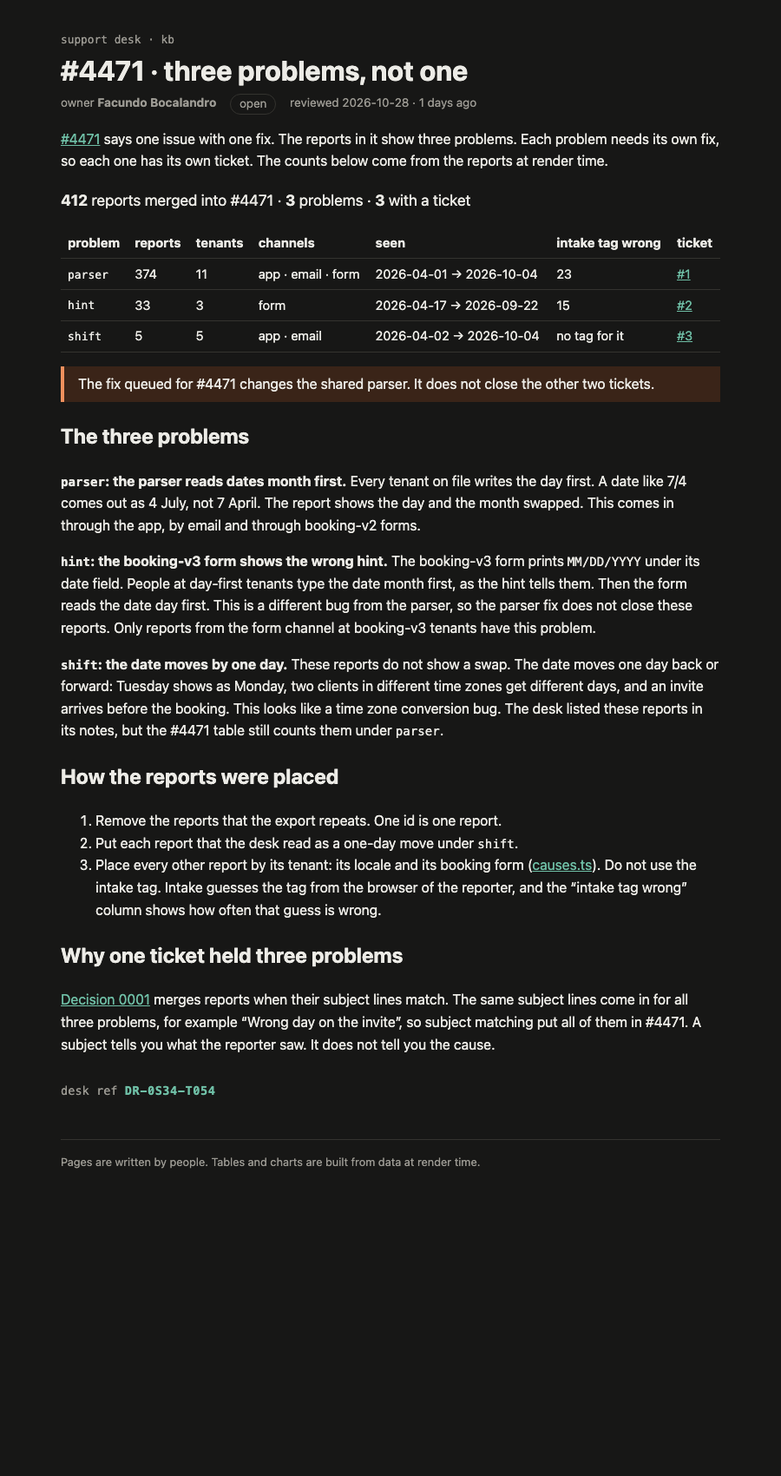
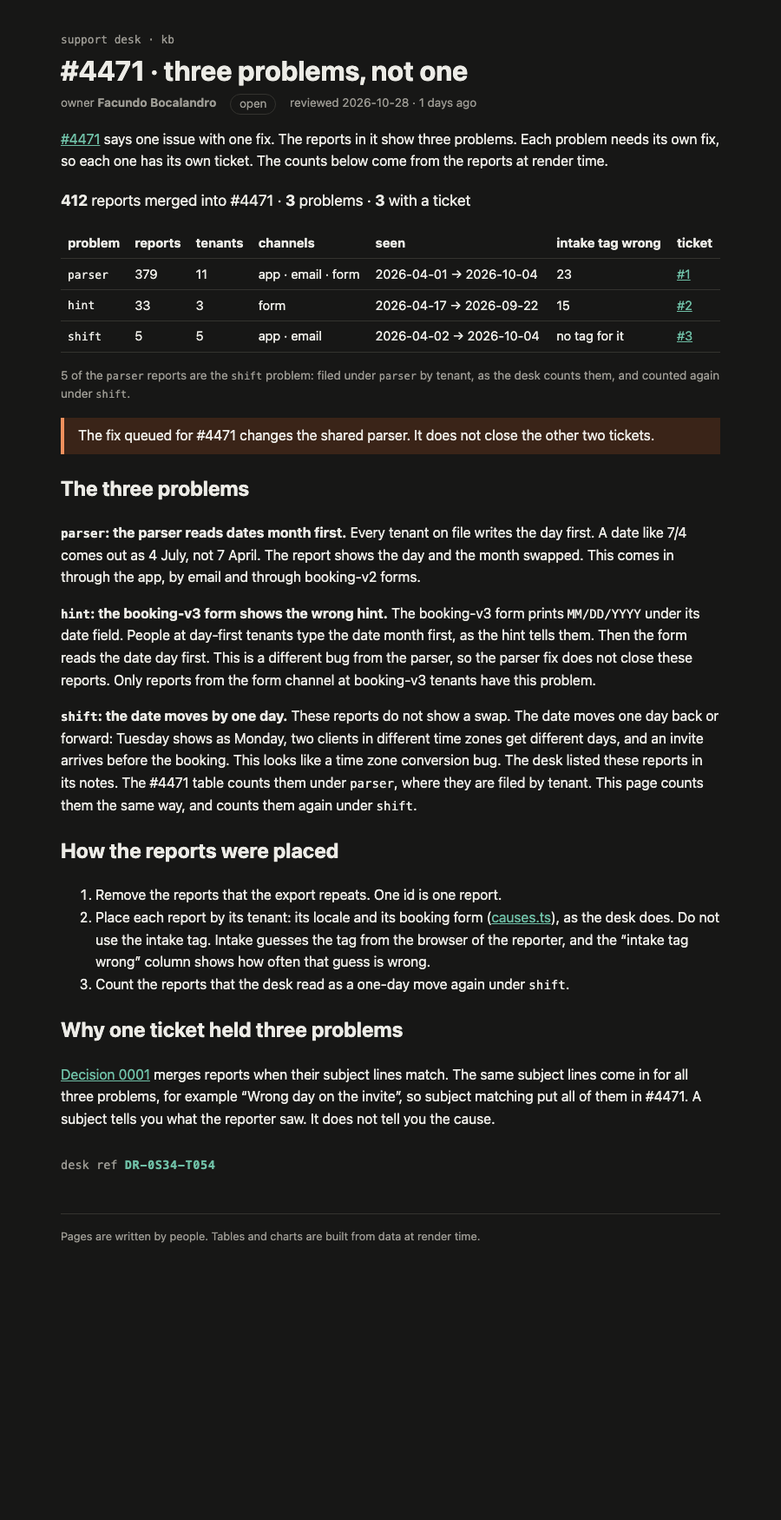
Count #4471 problems the way the desk counts

Changed region(s): [[0.0622, 0.0312, 0.9333, 0.8418], [0.28, 0.7794, 0.3111, 0.8418], [0.4978, 0.7794, 0.5289, 0.8106]]

diff --git a/rendered/site/kb/incidents/4471-split.html b/rendered/site/kb/incidents/4471-split.html
@@ -9,23 +9,23 @@
 		<link href="../../_app/immutable/chunks/B2Ul7l_u.js" rel="modulepreload">
 		<link href="../../_app/immutable/chunks/BCPXOG7W.js" rel="modulepreload">
 		<link href="../../_app/immutable/chunks/Dh1V97Jm.js" rel="modulepreload">
-		<link href="../../_app/immutable/entry/app.DE04yWjI.js" rel="modulepreload">
+		<link href="../../_app/immutable/entry/app.DlyPI68j.js" rel="modulepreload">
 		<link href="../../_app/immutable/nodes/0.C9KfiiPz.js" rel="modulepreload">
 		<link href="../../_app/immutable/chunks/DK3Fl9T5.js" rel="modulepreload">
-		<link href="../../_app/immutable/nodes/5.C_DFmM98.js" rel="modulepreload">
-		<link href="../../_app/immutable/chunks/ChXOlVZN.js" rel="modulepreload">
+		<link href="../../_app/immutable/nodes/5.DQgYE4df.js" rel="modulepreload">
+		<link href="../../_app/immutable/chunks/BeiGgLNp.js" rel="modulepreload">
 		<link href="../../_app/immutable/chunks/BTPwLomz.js" rel="modulepreload">
 		<link href="../../_app/immutable/chunks/CVBzP17p.js" rel="modulepreload">
 		<link href="../../_app/immutable/chunks/BIy4WKJS.js" rel="modulepreload">
 		<!--e2jw2j--><!----><title>#4471 · three problems, not one · support kb</title>
 		<link href="../../_app/immutable/assets/runbook.COyw0cbZ.css" rel="stylesheet">
 		<link href="../../_app/immutable/assets/Callout.AbLv9dM_.css" rel="stylesheet">
-		<link href="../../_app/immutable/assets/_page.lbj36FF-.css" rel="stylesheet">
+		<link href="../../_app/immutable/assets/_page.DUgw4t3M.css" rel="stylesheet">
   </head>
   <body>
     <div style="display: contents"><!--[--><!--[--><!--[0--><!--[--><!--[--><!--[-1--><!--[--><div class="kb svelte-e2jw2j"><header><a class="crumb svelte-e2jw2j" href="/kb">support desk · kb</a> <h1 class="svelte-e2jw2j">#4471 · three problems, not one</h1> <p class="meta svelte-e2jw2j"><span>owner <b>Facundo Bocalandro</b></span> <span class="status open svelte-e2jw2j">open</span> <span class="svelte-e2jw2j">reviewed 2026-10-28 · 1 days ago</span></p></header> <!--[-1--><!--]--> <main><p><a href="/kb/incidents/4471">#4471</a> says one issue with one fix. The reports in it show three problems.
 Each problem needs its own fix, so each one has its own ticket. The counts below come from the
-reports at render time.</p> <p class="sum svelte-1op6c6"><strong>412</strong> reports merged into #4471 · <strong>3</strong> problems · <strong>3</strong> with a ticket</p> <table><thead><tr><th>problem</th><th>reports</th><th>tenants</th><th>channels</th><th>seen</th><th>intake tag wrong</th><th>ticket</th></tr></thead><tbody><!--[--><tr class="svelte-1op6c6"><td class="svelte-1op6c6"><code>parser</code></td><td class="svelte-1op6c6">374</td><td class="svelte-1op6c6">11</td><td class="svelte-1op6c6">app · email · form</td><td class="svelte-1op6c6">2026-04-01 → 2026-10-04</td><td class="svelte-1op6c6">23</td><td class="svelte-1op6c6"><!--[0--><a href="https://github.com/FacundoBocalandro/support-kb-4471/issues/1">#1</a><!--]--></td></tr><tr class="svelte-1op6c6"><td class="svelte-1op6c6"><code>hint</code></td><td class="svelte-1op6c6">33</td><td class="svelte-1op6c6">3</td><td class="svelte-1op6c6">form</td><td class="svelte-1op6c6">2026-04-17 → 2026-09-22</td><td class="svelte-1op6c6">15</td><td class="svelte-1op6c6"><!--[0--><a href="https://github.com/FacundoBocalandro/support-kb-4471/issues/2">#2</a><!--]--></td></tr><tr class="svelte-1op6c6"><td class="svelte-1op6c6"><code>shift</code></td><td class="svelte-1op6c6">5</td><td class="svelte-1op6c6">5</td><td class="svelte-1op6c6">app · email</td><td class="svelte-1op6c6">2026-04-02 → 2026-10-04</td><td class="svelte-1op6c6">no tag for it</td><td class="svelte-1op6c6"><!--[0--><a href="https://github.com/FacundoBocalandro/support-kb-4471/issues/3">#3</a><!--]--></td></tr><!--]--></tbody></table><!----> <aside class="warn svelte-17bri61"><!---->The fix queued for #4471 changes the shared parser. It does not close the other two tickets.<!----></aside><!----> <h2>The three problems</h2> <p><strong><code>parser</code>: the parser reads dates month first.</strong> Every tenant on file writes the day first. A
+reports at render time.</p> <p class="sum svelte-1op6c6"><strong>412</strong> reports merged into #4471 · <strong>3</strong> problems · <strong>3</strong> with a ticket</p> <table><thead><tr><th>problem</th><th>reports</th><th>tenants</th><th>channels</th><th>seen</th><th>intake tag wrong</th><th>ticket</th></tr></thead><tbody><!--[--><tr class="svelte-1op6c6"><td class="svelte-1op6c6"><code>parser</code></td><td class="svelte-1op6c6">379</td><td class="svelte-1op6c6">11</td><td class="svelte-1op6c6">app · email · form</td><td class="svelte-1op6c6">2026-04-01 → 2026-10-04</td><td class="svelte-1op6c6">23</td><td class="svelte-1op6c6"><!--[0--><a href="https://github.com/FacundoBocalandro/support-kb-4471/issues/1">#1</a><!--]--></td></tr><tr class="svelte-1op6c6"><td class="svelte-1op6c6"><code>hint</code></td><td class="svelte-1op6c6">33</td><td class="svelte-1op6c6">3</td><td class="svelte-1op6c6">form</td><td class="svelte-1op6c6">2026-04-17 → 2026-09-22</td><td class="svelte-1op6c6">15</td><td class="svelte-1op6c6"><!--[0--><a href="https://github.com/FacundoBocalandro/support-kb-4471/issues/2">#2</a><!--]--></td></tr><tr class="svelte-1op6c6"><td class="svelte-1op6c6"><code>shift</code></td><td class="svelte-1op6c6">5</td><td class="svelte-1op6c6">5</td><td class="svelte-1op6c6">app · email</td><td class="svelte-1op6c6">2026-04-02 → 2026-10-04</td><td class="svelte-1op6c6">no tag for it</td><td class="svelte-1op6c6"><!--[0--><a href="https://github.com/FacundoBocalandro/support-kb-4471/issues/3">#3</a><!--]--></td></tr><!--]--></tbody></table> <!--[--><!--[0--><p class="note svelte-1op6c6">5 of the <code>parser</code> reports are the <code>shift</code> problem: filed under <code>parser</code> by tenant, as the desk counts them, and counted again under <code>shift</code>.</p><!--]--><!--[-1--><!--]--><!--[-1--><!--]--><!--]--><!----> <aside class="warn svelte-17bri61"><!---->The fix queued for #4471 changes the shared parser. It does not close the other two tickets.<!----></aside><!----> <h2>The three problems</h2> <p><strong><code>parser</code>: the parser reads dates month first.</strong> Every tenant on file writes the day first. A
 date like 7/4 comes out as 4 July, not 7 April. The report shows the day and the month swapped.
 This comes in through the app, by email and through booking-v2 forms.</p> <p><strong><code>hint</code>: the booking-v3 form shows the wrong hint.</strong> The booking-v3 form prints <code>MM/DD/YYYY</code> under its date field. People at day-first tenants type the date month first, as the hint tells
 them. Then the form reads the date day first. This is a different bug from the parser, so the
@@ -33,25 +33,26 @@ parser fix does not close these reports. Only reports from the form channel at b
 this problem.</p> <p><strong><code>shift</code>: the date moves by one day.</strong> These reports do not show a swap. The date moves one day
 back or forward: Tuesday shows as Monday, two clients in different time zones get different days,
 and an invite arrives before the booking. This looks like a time zone conversion bug. The desk
-listed these reports in its notes, but the #4471 table still counts them under <code>parser</code>.</p> <h2>How the reports were placed</h2> <ol><li>Remove the reports that the export repeats. One id is one report.</li> <li>Put each report that the desk read as a one-day move under <code>shift</code>.</li> <li>Place every other report by its tenant: its locale and its booking form
-(<a href="/kb/triage/dedupe">causes.ts</a>). Do not use the intake tag. Intake guesses the tag from the
-browser of the reporter, and the “intake tag wrong” column shows how often that guess is wrong.</li></ol> <h2>Why one ticket held three problems</h2> <p><a href="/kb/decisions/0001-dedupe-by-subject">Decision 0001</a> merges reports when their subject lines
+listed these reports in its notes. The #4471 table counts them under <code>parser</code>, where they are
+filed by tenant. This page counts them the same way, and counts them again under <code>shift</code>.</p> <h2>How the reports were placed</h2> <ol><li>Remove the reports that the export repeats. One id is one report.</li> <li>Place each report by its tenant: its locale and its booking form
+(<a href="/kb/triage/dedupe">causes.ts</a>), as the desk does. Do not use the intake tag. Intake guesses the tag from the
+browser of the reporter, and the “intake tag wrong” column shows how often that guess is wrong.</li> <li>Count the reports that the desk read as a one-day move again under <code>shift</code>.</li></ol> <h2>Why one ticket held three problems</h2> <p><a href="/kb/decisions/0001-dedupe-by-subject">Decision 0001</a> merges reports when their subject lines
 match. The same subject lines come in for all three problems, for example “Wrong day on the
 invite”, so subject matching put all of them in #4471. A subject tells you what the reporter saw.
 It does not tell you the cause.</p> <!--[0--><p class="stamp svelte-1280m42">desk ref <b class="svelte-1280m42">DR-0S34-T054</b></p><!--]--><!----><!----></main> <footer class="svelte-e2jw2j">Pages are written by people. Tables and charts are built from data at render time.</footer></div><!--]--><!--]--><!--]--><!----><!--]--><!--]--><!--]--><!----> <!--[-1--><!--]--><!--]-->
 			
 			<script>
 				{
-					__sveltekit_yldsym = {
+					__sveltekit_1a7hfvd = {
 						base: new URL("../..", location).pathname.slice(0, -1),
-						version: "1793234643461"
+						version: "1793234927393"
 					};
 
 					const element = document.currentScript.parentElement;
 
 					import("../../_app/immutable/entry/start.CH5w6lId.js").then(async (kit) => {
-						kit.init(__sveltekit_yldsym);
-						const app = await import("../../_app/immutable/entry/app.DE04yWjI.js");
+						kit.init(__sveltekit_1a7hfvd);
+						const app = await import("../../_app/immutable/entry/app.DlyPI68j.js");
 						kit.start(app, element, {
 							node_ids: [0, 5],
 							data: [null,null],

diff --git a/rendered/site/_app/immutable/chunks/BeiGgLNp.js b/rendered/site/_app/immutable/chunks/BeiGgLNp.js
@@ -1,0 +1,17 @@
+import{t as e}from"./DK3Fl9T5.js";import{E as t,F as n,H as r,I as i,K as a,L as o,N as s,O as c,R as l,S as u,T as d,U as f,W as p,_ as m,c as h,d as g,h as _,k as v,q as y,r as b,t as x,w as S}from"./BCPXOG7W.js";import{t as C}from"./BTPwLomz.js";import{n as w,t as T}from"./CVBzP17p.js";import{i as E,l as D,r as O,t as k}from"./BIy4WKJS.js";function A(e,t,n){let r=new Map,i=(e,t)=>r.set(e,[...r.get(e)??[],t]);for(let r of D(e))i(E(r,t(r))??`unplaced`,r),n.includes(r.id)&&i(`shift`,r);return[...r.entries()].map(([e,t])=>{let r=t.map(e=>e.receivedAt.slice(0,10)).sort();return{problem:e,reports:t,tenants:new Set(t.map(e=>e.tenant)).size,channels:[...new Set(t.map(e=>e.channel))].sort(),firstSeen:r[0],lastSeen:r[r.length-1],mistagged:e===`shift`?0:t.filter(t=>t.meta.intakeTag!==e).length,shifted:e===`shift`?0:t.filter(e=>n.includes(e.id)).length}}).sort((e,t)=>t.reports.length-e.reports.length)}var j=t(`<a> </a>`),M=t(`<tr><td class="svelte-1op6c6"><code> </code></td><td class="svelte-1op6c6"> </td><td class="svelte-1op6c6"> </td><td class="svelte-1op6c6"> </td><td class="svelte-1op6c6"> </td><td class="svelte-1op6c6"> </td><td class="svelte-1op6c6"><!></td></tr>`),N=t(`<p class="note svelte-1op6c6"> <code> </code> reports are the <code>shift</code> problem: filed under <code> </code> by tenant, as the desk counts them, and counted again under <code>shift</code>.</p>`),P=t(`<p class="sum svelte-1op6c6"><strong> </strong> <strong> </strong> <strong> </strong> with a ticket</p> <table><thead><tr><th>problem</th><th>reports</th><th>tenants</th><th>channels</th><th>seen</th><th>intake tag wrong</th><th>ticket</th></tr></thead><tbody></tbody></table> <!>`,1);function F(e,t){p(t,!0);let b=r(()=>w.filter(e=>e.mergedInto===t.ticket)),x=r(()=>A(v(b),O,T.oneDayMove)),C=r(()=>D(v(b)).length),E=e=>`#${e.split(`/`).pop()}`;var k=P(),F=i(k),I=n(F),L=o(I,!0),R=l(I),z=l(R),B=o(z,!0),V=l(z),H=l(V),U=o(H,!0);a(),y(F);var W=l(F,2),G=l(n(W));_(G,21,()=>v(x),e=>e.problem,(e,r)=>{var i=M();let a;var d=n(i),f=n(d),p=o(f,!0);y(d);var _=l(d),b=o(_,!0),x=l(_),C=o(x,!0),w=l(x),T=o(w,!0),D=l(w),O=o(D),k=l(D),A=o(k,!0),N=l(k),P=n(N),F=e=>{var n=j(),i=o(n,!0);s(e=>{h(n,`href`,t.tickets[v(r).problem]),u(i,e)},[()=>E(t.tickets[v(r).problem])]),S(e,n)},I=e=>{var t=c(`no ticket`);S(e,t)};m(P,e=>{t.tickets[v(r).problem]?e(F):e(I,-1)}),y(N),y(i),s(e=>{a=g(i,1,`svelte-1op6c6`,null,a,{open:!t.tickets[v(r).problem]}),u(p,v(r).problem),u(b,v(r).reports.length),u(C,v(r).tenants),u(T,e),u(O,`${v(r).firstSeen??``} → ${v(r).lastSeen??``}`),u(A,v(r).problem===`shift`?`no tag for it`:v(r).mistagged)},[()=>v(r).channels.join(` · `)]),S(e,i)}),y(G),y(W);var K=l(W,2);_(K,17,()=>v(x),e=>e.problem,(e,t)=>{var r=d(),c=i(r),f=e=>{var r=N(),i=n(r),c=l(i),d=o(c,!0),f=l(c,4),p=o(f,!0);a(3),y(r),s(()=>{u(i,`${v(t).shifted??``} of the `),u(d,v(t).problem),u(p,v(t).problem)}),S(e,r)};m(c,e=>{v(t).shifted&&e(f)}),S(e,r)}),s(e=>{u(L,v(C)),u(R,` reports merged into #${t.ticket??``} · `),u(B,v(x).length),u(V,` ${v(x).length===1?`problem`:`problems`} · `),u(U,e)},[()=>v(x).filter(e=>t.tickets[e.problem]).length]),S(e,k),f()}var I=`0123456789ABCDEFGHJKMNPQRSTVWXYZ`;function L(e,t){let n=t>>>0;for(let t=0;t<e.length;t++)n^=e.charCodeAt(t),n=Math.imul(n,16777619)>>>0;return n}function R(e){let t=e.trim(),n=L(t,2166136261),r=L(t,2654435769),i=BigInt(n)<<8n|BigInt(r&255),a=``;for(let e=0;e<8;e++)a=I[Number(i&31n)]+a,i>>=5n;return`DR-${a.slice(0,4)}-${a.slice(4)}`}var z=t(`<p class="stamp svelte-1280m42">desk ref <b class="svelte-1280m42"> </b></p>`),B=t(`<p class="stamp missing svelte-1280m42">no desk ref: this page isn't signed (no <code>signature</code> in its frontmatter)</p>`);function V(e,t){p(t,!0);let a=r(()=>t.signature?R(t.signature):null);var c=d(),h=i(c),g=e=>{var t=z(),r=l(n(t)),i=o(r,!0);y(t),s(()=>u(i,v(a))),S(e,t)},_=e=>{var t=B();S(e,t)};m(h,e=>{v(a)?e(g):e(_,-1)}),S(e,c),f()}var H=e({default:()=>Z,metadata:()=>U}),U={layout:`runbook`,title:`#4471 · three problems, not one`,owner:`Facundo Bocalandro`,status:`open`,reviewed:`2026-10-28T00:00:00.000Z`,signature:`Facundo Bocalandro`},{layout:W,title:G,owner:K,status:q,reviewed:J,signature:Y}=U,X=t(`<p><a href="/kb/incidents/4471">#4471</a> says one issue with one fix. The reports in it show three problems.
+Each problem needs its own fix, so each one has its own ticket. The counts below come from the
+reports at render time.</p> <!> <!> <h2>The three problems</h2> <p><strong><code>parser</code>: the parser reads dates month first.</strong> Every tenant on file writes the day first. A
+date like 7/4 comes out as 4 July, not 7 April. The report shows the day and the month swapped.
+This comes in through the app, by email and through booking-v2 forms.</p> <p><strong><code>hint</code>: the booking-v3 form shows the wrong hint.</strong> The booking-v3 form prints <code>MM/DD/YYYY</code> under its date field. People at day-first tenants type the date month first, as the hint tells
+them. Then the form reads the date day first. This is a different bug from the parser, so the
+parser fix does not close these reports. Only reports from the form channel at booking-v3 tenants have
+this problem.</p> <p><strong><code>shift</code>: the date moves by one day.</strong> These reports do not show a swap. The date moves one day
+back or forward: Tuesday shows as Monday, two clients in different time zones get different days,
+and an invite arrives before the booking. This looks like a time zone conversion bug. The desk
+listed these reports in its notes. The #4471 table counts them under <code>parser</code>, where they are
+filed by tenant. This page counts them the same way, and counts them again under <code>shift</code>.</p> <h2>How the reports were placed</h2> <ol><li>Remove the reports that the export repeats. One id is one report.</li> <li>Place each report by its tenant: its locale and its booking form
+(<a href="/kb/triage/dedupe">causes.ts</a>), as the desk does. Do not use the intake tag. Intake guesses the tag from the
+browser of the reporter, and the “intake tag wrong” column shows how often that guess is wrong.</li> <li>Count the reports that the desk read as a one-day move again under <code>shift</code>.</li></ol> <h2>Why one ticket held three problems</h2> <p><a href="/kb/decisions/0001-dedupe-by-subject">Decision 0001</a> merges reports when their subject lines
+match. The same subject lines come in for all three problems, for example “Wrong day on the
+invite”, so subject matching put all of them in #4471. A subject tells you what the reporter saw.
+It does not tell you the cause.</p> <!>`,1);function Z(e,t){let n=x(t,[`children`,`$$slots`,`$$events`,`$$legacy`]),r=`https://github.com/FacundoBocalandro/support-kb-4471/issues`,o={parser:`${r}/1`,hint:`${r}/2`,shift:`${r}/3`};C(e,b(()=>n,()=>U,{children:(e,t)=>{var n=X(),r=l(i(n),2);F(r,{ticket:4471,get tickets(){return o}});var s=l(r,2);k(s,{kind:`warn`,children:(e,t)=>{a();var n=c(`The fix queued for #4471 changes the shared parser. It does not close the other two tickets.`);S(e,n)},$$slots:{default:!0}}),V(l(s,18),{get signature(){return Y}}),S(e,n)},$$slots:{default:!0}}))}export{Z as n,H as t};

diff --git a/rendered/site/kb.html b/rendered/site/kb.html
@@ -9,22 +9,22 @@
 		<link href="./_app/immutable/chunks/B2Ul7l_u.js" rel="modulepreload">
 		<link href="./_app/immutable/chunks/BCPXOG7W.js" rel="modulepreload">
 		<link href="./_app/immutable/chunks/Dh1V97Jm.js" rel="modulepreload">
-		<link href="./_app/immutable/entry/app.DE04yWjI.js" rel="modulepreload">
+		<link href="./_app/immutable/entry/app.DlyPI68j.js" rel="modulepreload">
 		<link href="./_app/immutable/nodes/0.C9KfiiPz.js" rel="modulepreload">
 		<link href="./_app/immutable/chunks/DK3Fl9T5.js" rel="modulepreload">
-		<link href="./_app/immutable/nodes/2.m4imj0Iz.js" rel="modulepreload">
+		<link href="./_app/immutable/nodes/2.DaDC6raY.js" rel="modulepreload">
 		<link href="./_app/immutable/chunks/BTPwLomz.js" rel="modulepreload">
 		<link href="./_app/immutable/chunks/YX22L_Ud.js" rel="modulepreload">
 		<link href="./_app/immutable/chunks/CgeRC4yK.js" rel="modulepreload">
 		<link href="./_app/immutable/chunks/CVBzP17p.js" rel="modulepreload">
 		<link href="./_app/immutable/chunks/BIy4WKJS.js" rel="modulepreload">
-		<link href="./_app/immutable/chunks/ChXOlVZN.js" rel="modulepreload">
+		<link href="./_app/immutable/chunks/BeiGgLNp.js" rel="modulepreload">
 		<link href="./_app/immutable/chunks/BGqJVSDw.js" rel="modulepreload">
 		<!--e2jw2j--><!----><title>Support knowledge base · support kb</title>
 		<link href="./_app/immutable/assets/runbook.COyw0cbZ.css" rel="stylesheet">
 		<link href="./_app/immutable/assets/Callout.AbLv9dM_.css" rel="stylesheet">
 		<link href="./_app/immutable/assets/_page.D56XP2ro.css" rel="stylesheet">
-		<link href="./_app/immutable/assets/_page.lbj36FF-.css" rel="stylesheet">
+		<link href="./_app/immutable/assets/_page.DUgw4t3M.css" rel="stylesheet">
 		<link href="./_app/immutable/assets/_page.DO6Yid7X.css" rel="stylesheet">
 		<link href="./_app/immutable/assets/2.Bt0MwIZg.css" rel="stylesheet">
   </head>
@@ -34,16 +34,16 @@ computed by a component, not typed into a paragraph.</p><!----></main> <footer c
 			
 			<script>
 				{
-					__sveltekit_yldsym = {
+					__sveltekit_1a7hfvd = {
 						base: new URL(".", location).pathname.slice(0, -1),
-						version: "1793234643461"
+						version: "1793234927393"
 					};
 
 					const element = document.currentScript.parentElement;
 
 					import("./_app/immutable/entry/start.CH5w6lId.js").then(async (kit) => {
-						kit.init(__sveltekit_yldsym);
-						const app = await import("./_app/immutable/entry/app.DE04yWjI.js");
+						kit.init(__sveltekit_1a7hfvd);
+						const app = await import("./_app/immutable/entry/app.DlyPI68j.js");
 						kit.start(app, element, {
 							node_ids: [0, 2],
 							data: [null,null],

diff --git a/src/lib/kb/problems.ts b/src/lib/kb/problems.ts
@@ -1,13 +1,9 @@
-// One problem per fix. causes.ts places a report by its tenant; the reports the desk read as a one-day
-// move (desk-notes.json) are a third bug, not the parser, so they get a problem of their own.
+// One problem per fix. Counted the way the desk counts (CauseTable): each report under the cause it is
+// filed under by tenant. The reports the desk read as a one-day move (desk-notes.json) stay where they
+// are filed and are counted again as `shift`, a third bug with a ticket of its own.
 import { causeOf, uniqueById, type Cause, type Report, type Tenant } from '#lib/kb/causes';
 
 export type Problem = Cause | 'shift' | 'unplaced';
-
-export function problemOf(r: Report, t: Tenant | undefined, shiftIds: readonly string[]): Problem {
-  if (shiftIds.includes(r.id)) return 'shift';
-  return causeOf(r, t) ?? 'unplaced';
-}
 
 export type ProblemGroup = {
   problem: Problem;
@@ -16,8 +12,10 @@ export type ProblemGroup = {
   channels: string[];
   firstSeen: string;
   lastSeen: string;
-  // Reports intake tagged with a different cause than the one they belong to.
+  // Reports intake tagged with a different cause than the one they are filed under.
   mistagged: number;
+  // Reports in this group that are also counted as `shift`.
+  shifted: number;
 };
 
 export function groupByProblem(
@@ -26,9 +24,10 @@ export function groupByProblem(
   shiftIds: readonly string[],
 ): ProblemGroup[] {
   const byProblem = new Map<Problem, Report[]>();
+  const add = (p: Problem, r: Report) => byProblem.set(p, [...(byProblem.get(p) ?? []), r]);
   for (const r of uniqueById(reports)) {
-    const p = problemOf(r, tenantOf(r), shiftIds);
-    byProblem.set(p, [...(byProblem.get(p) ?? []), r]);
+    add(causeOf(r, tenantOf(r)) ?? 'unplaced', r);
+    if (shiftIds.includes(r.id)) add('shift', r);
   }
   return [...byProblem.entries()]
     .map(([problem, rs]) => {
@@ -41,6 +40,7 @@ export function groupByProblem(
         firstSeen: days[0],
         lastSeen: days[days.length - 1],
         mistagged: problem === 'shift' ? 0 : rs.filter((r) => r.meta.intakeTag !== problem).length,
+        shifted: problem === 'shift' ? 0 : rs.filter((r) => shiftIds.includes(r.id)).length,
       };
     })
     .sort((a, b) => b.reports.length - a.reports.length);

diff --git a/rendered/site/_app/immutable/nodes/2.DaDC6raY.js b/rendered/site/_app/immutable/nodes/2.DaDC6raY.js
@@ -1,0 +1,2 @@
+import{E as e,F as t,I as n,K as r,L as i,N as a,R as o,S as s,U as c,W as l,c as u,d,h as f,i as p,k as m,q as h,r as g,t as _,w as v}from"../chunks/BCPXOG7W.js";import{n as y,r as b,t as x}from"../chunks/BTPwLomz.js";import{t as S}from"../chunks/YX22L_Ud.js";import{t as C}from"../chunks/CgeRC4yK.js";import{t as w}from"../chunks/BeiGgLNp.js";import{t as T}from"../chunks/BGqJVSDw.js";var E=e(`<tr><td><a> </a></td><td> </td><td> </td><td> </td></tr>`),D=e(`<table><thead><tr><th>page</th><th>owner</th><th>status</th><th>reviewed</th></tr></thead><tbody></tbody></table>`);function O(e,n){l(n,!1);let r=Object.entries(Object.assign({"/src/routes/kb/decisions/0001-dedupe-by-subject/+page.svx":S,"/src/routes/kb/incidents/4471/+page.svx":C,"/src/routes/kb/incidents/4471-split/+page.svx":w,"/src/routes/kb/triage/dedupe/+page.svx":T})).map(([e,t])=>({href:e.replace(`/src/routes`,``).replace(`/+page.svx`,``),...t.metadata})).sort((e,t)=>e.href.localeCompare(t.href));p();var g=D(),_=o(t(g));f(_,5,()=>r,e=>e.href,(e,n)=>{var r=E(),c=t(r),l=t(c),f=i(l,!0);h(c);var p=o(c),g=i(p,!0),_=o(p),x=i(_,!0),S=o(_);let C;var w=i(S,!0);h(r),a((e,t)=>{u(l,`href`,m(n).href),s(f,m(n).title),s(g,m(n).owner),s(x,m(n).status),C=d(S,1,`svelte-tbc1ha`,null,C,{stale:e}),s(w,t)},[()=>y(m(n).reviewed)>180,()=>b(m(n).reviewed)]),v(e,r)}),h(_),h(g),v(e,g),c()}var k={layout:`runbook`,title:`Support knowledge base`,owner:`support desk`,status:`living`,reviewed:`2026-09-28T00:00:00.000Z`},{layout:A,title:j,owner:M,status:N,reviewed:P}=k,F=e(`<p>What the support desk knows, kept next to the code that knows it. One desk, every product: <code>sched-prod</code> (calendar invites for about 300k people) and the rest. When something breaks, the reports land here first.</p> <p>Start with <a href="/kb/triage/dedupe">triage</a> if you are new on the desk.</p> <h2>Pages</h2> <!> <h2>Writing a page</h2> <p>Keep the words here and the logic in <code>src/lib</code>. A number that can be computed should be
+computed by a component, not typed into a paragraph.</p>`,1);function I(e,t){let i=_(t,[`children`,`$$slots`,`$$events`,`$$legacy`]);x(e,g(()=>i,()=>k,{children:(e,t)=>{var i=F();O(o(n(i),6),{}),r(4),v(e,i)},$$slots:{default:!0}}))}export{I as component};

diff --git a/rendered/site/_app/immutable/entry/app.DlyPI68j.js b/rendered/site/_app/immutable/entry/app.DlyPI68j.js
@@ -1,0 +1,2 @@
+const __vite__mapDeps=(i,m=__vite__mapDeps,d=(m.f||(m.f=["../nodes/0.C9KfiiPz.js","../chunks/DK3Fl9T5.js","../chunks/BCPXOG7W.js","../nodes/1.mOwa9YdW.js","../chunks/Dh1V97Jm.js","./payload.DSmR2FwN.js","../nodes/2.DaDC6raY.js","../chunks/BTPwLomz.js","../assets/runbook.COyw0cbZ.css","../chunks/YX22L_Ud.js","../chunks/CgeRC4yK.js","../chunks/CVBzP17p.js","../chunks/BIy4WKJS.js","../assets/Callout.AbLv9dM_.css","../assets/_page.D56XP2ro.css","../chunks/BeiGgLNp.js","../assets/_page.DUgw4t3M.css","../chunks/BGqJVSDw.js","../assets/_page.DO6Yid7X.css","../assets/2.Bt0MwIZg.css","../nodes/3.DRxPfvn3.js","../nodes/4.rt2PfD_4.js","../nodes/5.DQgYE4df.js","../nodes/6.sFtxrtyV.js"])))=>i.map(i=>d[i]);
+import{t as e}from"../chunks/CRzLMJPS.js";var t={},n=[()=>e(()=>import(`../nodes/0.C9KfiiPz.js`),__vite__mapDeps([0,1,2]),import.meta.url),()=>e(()=>import(`../nodes/1.mOwa9YdW.js`),__vite__mapDeps([3,2,4,5]),import.meta.url),()=>e(()=>import(`../nodes/2.DaDC6raY.js`),__vite__mapDeps([6,2,7,8,9,1,10,11,12,13,14,15,16,17,18,19]),import.meta.url),()=>e(()=>import(`../nodes/3.DRxPfvn3.js`),__vite__mapDeps([20,9,1,2,7,8]),import.meta.url),()=>e(()=>import(`../nodes/4.rt2PfD_4.js`),__vite__mapDeps([21,10,1,2,7,8,11,12,13,14]),import.meta.url),()=>e(()=>import(`../nodes/5.DQgYE4df.js`),__vite__mapDeps([22,15,1,2,7,8,11,12,13,16]),import.meta.url),()=>e(()=>import(`../nodes/6.sFtxrtyV.js`),__vite__mapDeps([23,17,1,2,7,8,12,13,18]),import.meta.url)],r=[],i={"/kb":[2],"/kb/decisions/0001-dedupe-by-subject":[3],"/kb/incidents/4471-split":[5],"/kb/incidents/4471":[4],"/kb/triage/dedupe":[6]},a={handleError:(({kind:e,error:t})=>{e===`unknown`&&console.error(t)}),reroute:(()=>{}),transport:{}},o=Object.fromEntries(Object.entries(a.transport).map(([e,t])=>[e,t.decode])),s=Object.fromEntries(Object.entries(a.transport).map(([e,t])=>[e,t.encode])),c=!1,l=(e,t)=>o[e](t),u=()=>e(()=>import(`../chunks/Bjy-W4x2.js`).then(e=>e.default),[],import.meta.url);export{l as decode,o as decoders,i as dictionary,s as encoders,u as get_error_template,c as hash,a as hooks,t as matchers,n as nodes,r as server_loads};

diff --git a/rendered/site/kb/decisions/0001-dedupe-by-subject.html b/rendered/site/kb/decisions/0001-dedupe-by-subject.html
@@ -9,7 +9,7 @@
 		<link href="../../_app/immutable/chunks/B2Ul7l_u.js" rel="modulepreload">
 		<link href="../../_app/immutable/chunks/BCPXOG7W.js" rel="modulepreload">
 		<link href="../../_app/immutable/chunks/Dh1V97Jm.js" rel="modulepreload">
-		<link href="../../_app/immutable/entry/app.DE04yWjI.js" rel="modulepreload">
+		<link href="../../_app/immutable/entry/app.DlyPI68j.js" rel="modulepreload">
 		<link href="../../_app/immutable/nodes/0.C9KfiiPz.js" rel="modulepreload">
 		<link href="../../_app/immutable/chunks/DK3Fl9T5.js" rel="modulepreload">
 		<link href="../../_app/immutable/nodes/3.DRxPfvn3.js" rel="modulepreload">
@@ -26,16 +26,16 @@ engineering merges them later.</li></ul><!----></main> <footer class="svelte-e2j
 			
 			<script>
 				{
-					__sveltekit_yldsym = {
+					__sveltekit_1a7hfvd = {
 						base: new URL("../..", location).pathname.slice(0, -1),
-						version: "1793234643461"
+						version: "1793234927393"
 					};
 
 					const element = document.currentScript.parentElement;
 
 					import("../../_app/immutable/entry/start.CH5w6lId.js").then(async (kit) => {
-						kit.init(__sveltekit_yldsym);
-						const app = await import("../../_app/immutable/entry/app.DE04yWjI.js");
+						kit.init(__sveltekit_1a7hfvd);
+						const app = await import("../../_app/immutable/entry/app.DlyPI68j.js");
 						kit.start(app, element, {
 							node_ids: [0, 3],
 							data: [null,null],

diff --git a/rendered/site/kb/incidents/4471.html b/rendered/site/kb/incidents/4471.html
@@ -9,7 +9,7 @@
 		<link href="../../_app/immutable/chunks/B2Ul7l_u.js" rel="modulepreload">
 		<link href="../../_app/immutable/chunks/BCPXOG7W.js" rel="modulepreload">
 		<link href="../../_app/immutable/chunks/Dh1V97Jm.js" rel="modulepreload">
-		<link href="../../_app/immutable/entry/app.DE04yWjI.js" rel="modulepreload">
+		<link href="../../_app/immutable/entry/app.DlyPI68j.js" rel="modulepreload">
 		<link href="../../_app/immutable/nodes/0.C9KfiiPz.js" rel="modulepreload">
 		<link href="../../_app/immutable/chunks/DK3Fl9T5.js" rel="modulepreload">
 		<link href="../../_app/immutable/nodes/4.rt2PfD_4.js" rel="modulepreload">
@@ -29,16 +29,16 @@ first. The fix is queued.</p> <aside class="note svelte-17bri61"><!---->Known. O
 			
 			<script>
 				{
-					__sveltekit_yldsym = {
+					__sveltekit_1a7hfvd = {
 						base: new URL("../..", location).pathname.slice(0, -1),
-						version: "1793234643461"
+						version: "1793234927393"
 					};
 
 					const element = document.currentScript.parentElement;
 
 					import("../../_app/immutable/entry/start.CH5w6lId.js").then(async (kit) => {
-						kit.init(__sveltekit_yldsym);
-						const app = await import("../../_app/immutable/entry/app.DE04yWjI.js");
+						kit.init(__sveltekit_1a7hfvd);
+						const app = await import("../../_app/immutable/entry/app.DlyPI68j.js");
 						kit.start(app, element, {
 							node_ids: [0, 4],
 							data: [null,null],

diff --git a/rendered/site/kb/triage/dedupe.html b/rendered/site/kb/triage/dedupe.html
@@ -9,7 +9,7 @@
 		<link href="../../_app/immutable/chunks/B2Ul7l_u.js" rel="modulepreload">
 		<link href="../../_app/immutable/chunks/BCPXOG7W.js" rel="modulepreload">
 		<link href="../../_app/immutable/chunks/Dh1V97Jm.js" rel="modulepreload">
-		<link href="../../_app/immutable/entry/app.DE04yWjI.js" rel="modulepreload">
+		<link href="../../_app/immutable/entry/app.DlyPI68j.js" rel="modulepreload">
 		<link href="../../_app/immutable/nodes/0.C9KfiiPz.js" rel="modulepreload">
 		<link href="../../_app/immutable/chunks/DK3Fl9T5.js" rel="modulepreload">
 		<link href="../../_app/immutable/nodes/6.sFtxrtyV.js" rel="modulepreload">
@@ -29,16 +29,16 @@ anything else.<!----></aside><!----> <h2>Try it</h2> <div class="try svelte-gq0h
 			
 			<script>
 				{
-					__sveltekit_yldsym = {
+					__sveltekit_1a7hfvd = {
 						base: new URL("../..", location).pathname.slice(0, -1),
-						version: "1793234643461"
+						version: "1793234927393"
 					};
 
 					const element = document.currentScript.parentElement;
 
 					import("../../_app/immutable/entry/start.CH5w6lId.js").then(async (kit) => {
-						kit.init(__sveltekit_yldsym);
-						const app = await import("../../_app/immutable/entry/app.DE04yWjI.js");
+						kit.init(__sveltekit_1a7hfvd);
+						const app = await import("../../_app/immutable/entry/app.DlyPI68j.js");
 						kit.start(app, element, {
 							node_ids: [0, 6],
 							data: [null,null],

diff --git a/src/lib/kb/ProblemTable.svelte b/src/lib/kb/ProblemTable.svelte
@@ -1,7 +1,7 @@
 <script lang="ts">
   import reports from '#lib/data/reports-4471.json';
   import notes from '#lib/data/desk-notes.json';
-  import { type Report } from '#lib/kb/causes';
+  import { uniqueById, type Report } from '#lib/kb/causes';
   import { tenantOf } from '#lib/kb/locales';
   import { groupByProblem, type Problem } from '#lib/kb/problems';
 
@@ -10,7 +10,7 @@
 
   const merged = $derived((reports as Report[]).filter((r) => r.mergedInto === ticket));
   const groups = $derived(groupByProblem(merged, tenantOf, notes.oneDayMove));
-  const total = $derived(groups.reduce((n, g) => n + g.reports.length, 0));
+  const total = $derived(uniqueById(merged).length);
   const ticketName = (url: string) => `#${url.split('/').pop()}`;
 </script>
 
@@ -42,8 +42,15 @@
   </tbody>
 </table>
 
+{#each groups as g (g.problem)}
+  {#if g.shifted}
+    <p class="note">{g.shifted} of the <code>{g.problem}</code> reports are the <code>shift</code> problem: filed under <code>{g.problem}</code> by tenant, as the desk counts them, and counted again under <code>shift</code>.</p>
+  {/if}
+{/each}
+
 <style>
   .sum { font-size: 1.1rem; }
+  .note { color: var(--muted); font-size: 0.85em; }
   .open td { background: var(--warn-bg); }
   .open td:last-child { color: var(--warn); font-weight: 600; }
 </style>

diff --git a/rendered/site/_app/immutable/assets/_page.DUgw4t3M.css b/rendered/site/_app/immutable/assets/_page.DUgw4t3M.css
@@ -1,0 +1,1 @@
+.sum.svelte-1op6c6{font-size:1.1rem}.note.svelte-1op6c6{color:var(--muted);font-size:.85em}.open.svelte-1op6c6 td:where(.svelte-1op6c6){background:var(--warn-bg)}.open.svelte-1op6c6 td:where(.svelte-1op6c6):last-child{color:var(--warn);font-weight:600}.stamp.svelte-1280m42{font:.85rem var(--mono);color:var(--muted);margin:2rem 0 0}.stamp.svelte-1280m42 b:where(.svelte-1280m42){color:var(--accent);letter-spacing:.04em}.missing.svelte-1280m42{color:var(--warn)}

diff --git a/rendered/site/_app/immutable/nodes/5.DQgYE4df.js b/rendered/site/_app/immutable/nodes/5.DQgYE4df.js
@@ -1,0 +1,1 @@
+export{n as component}from"../chunks/BeiGgLNp.js";
